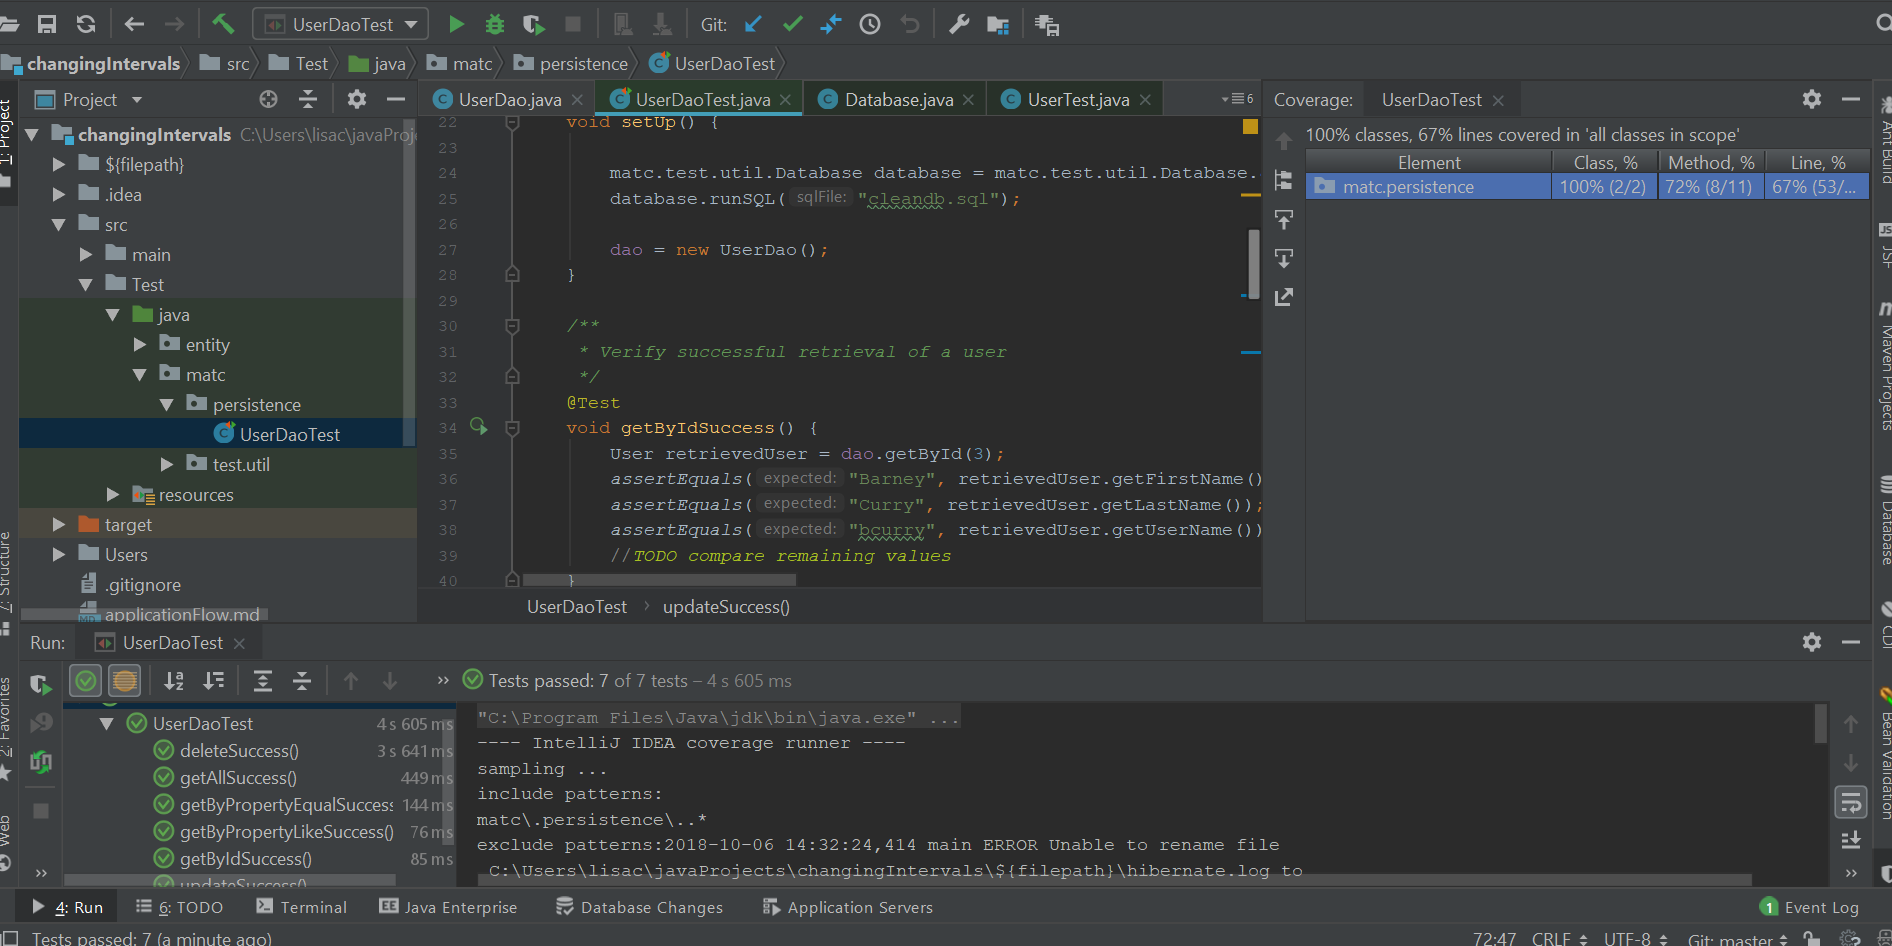
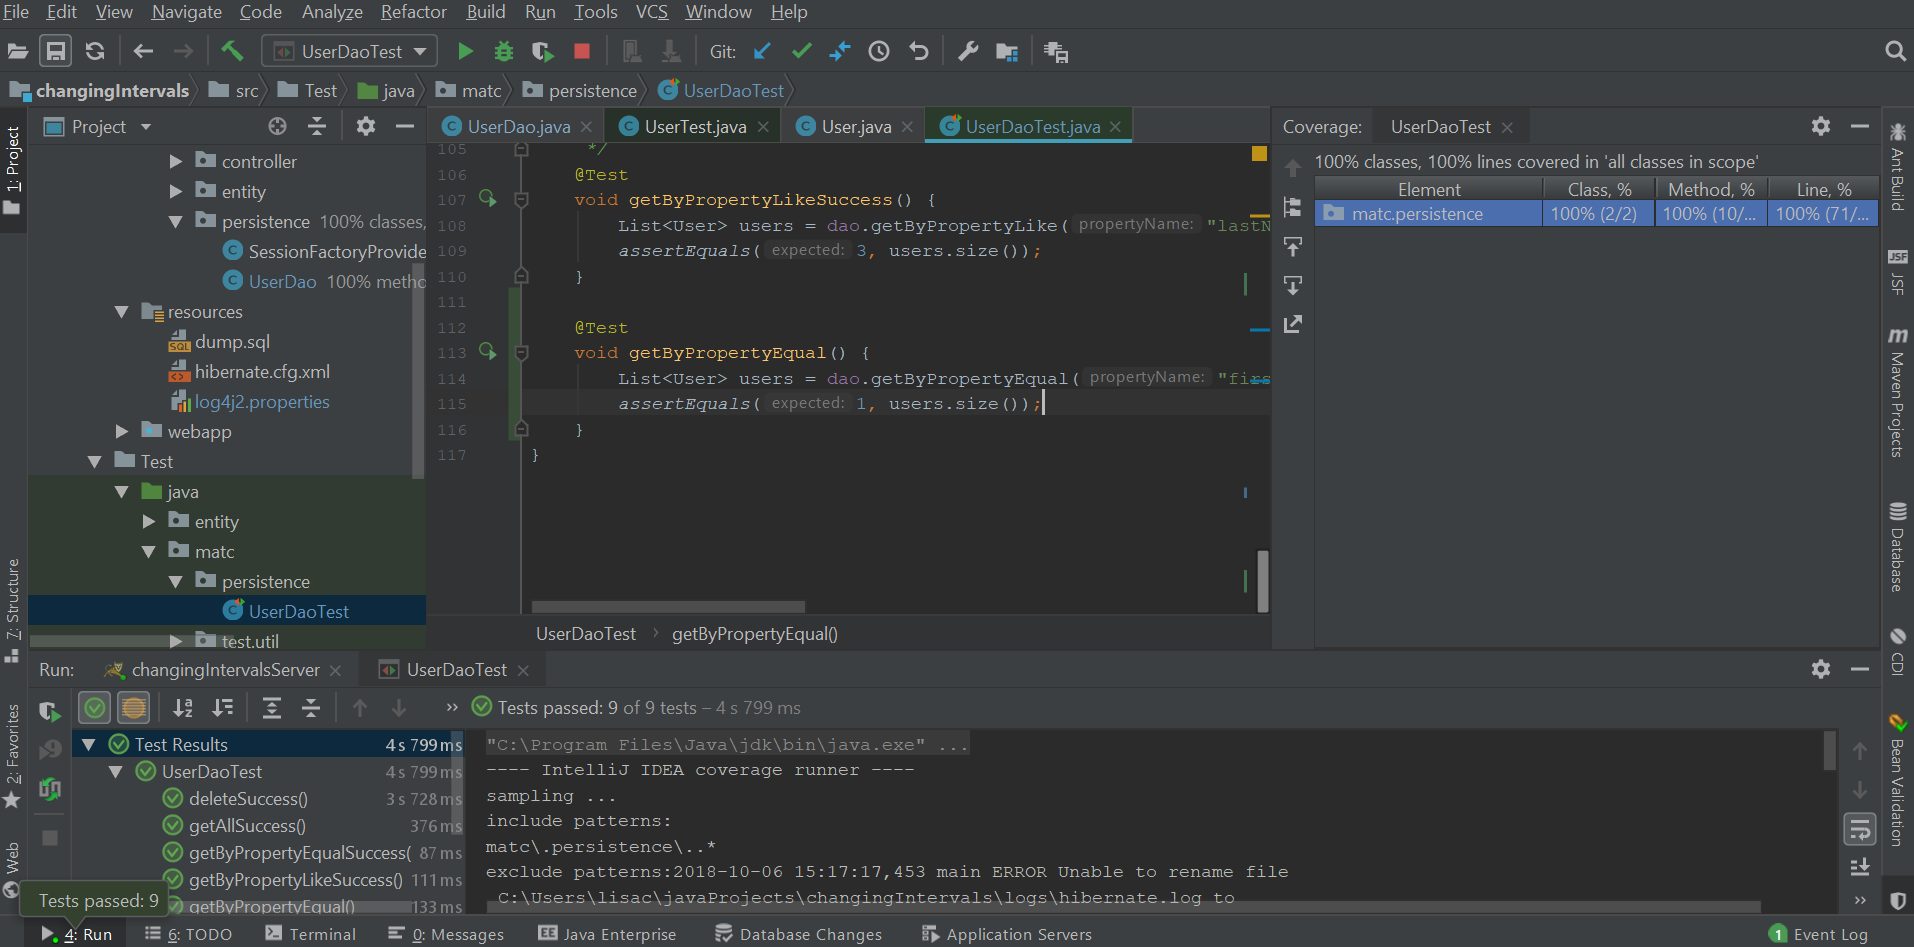
Updating Project with full coverage tests and screenshots.

diff --git a/src/Test/java/matc/persistence/UserDaoTest.java b/src/Test/java/matc/persistence/UserDaoTest.java
@@ -27,6 +27,12 @@ class UserDaoTest {
         dao = new UserDao();
     }
 
+    @Test
+    void getUserByLastName() {
+        List<User> users = dao.getUsersByLastName("Curry");
+        assertEquals(1, users.size());
+    }
+
     /**
      * Verify successful retrieval of a user
      */
@@ -80,7 +86,7 @@ class UserDaoTest {
      */
     @Test
     void getAllSuccess() {
-        List<User> users = dao.getAll();
+        List<User> users = dao.getAllUsers();
         assertEquals(6, users.size());
     }
 
@@ -101,5 +107,11 @@ class UserDaoTest {
     void getByPropertyLikeSuccess() {
         List<User> users = dao.getByPropertyLike("lastName", "c");
         assertEquals(3, users.size());
+    }
+
+    @Test
+    void getByPropertyEqual() {
+        List<User> users = dao.getByPropertyEqual("firstName", "Dawn");
+        assertEquals(1, users.size());
     }
 }

diff --git a/src/main/java/matc/persistence/UserDao.java b/src/main/java/matc/persistence/UserDao.java
@@ -106,26 +106,6 @@ public class UserDao {
         session.close();
     }
 
-
-    /** Return a list of all users
-     *
-     * @return All users
-     */
-    public List<User> getAll() {
-
-        Session session = sessionFactory.openSession();
-
-        CriteriaBuilder builder = session.getCriteriaBuilder();
-        CriteriaQuery<User> query = builder.createQuery( User.class );
-        Root<User> root = query.from( User.class );
-        List<User> users = session.createQuery( query ).getResultList();
-
-        logger.debug("The list of users " + users);
-        session.close();
-
-        return users;
-    }
-
     /**
      * Get user by property (exact match)
      * sample usage: getByPropertyEqual("lastname", "Curry")
